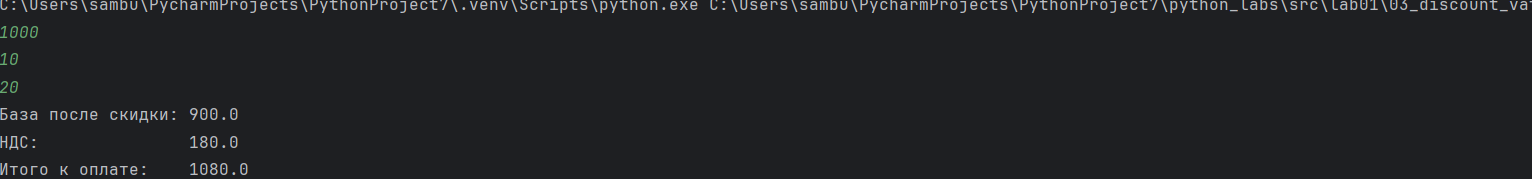
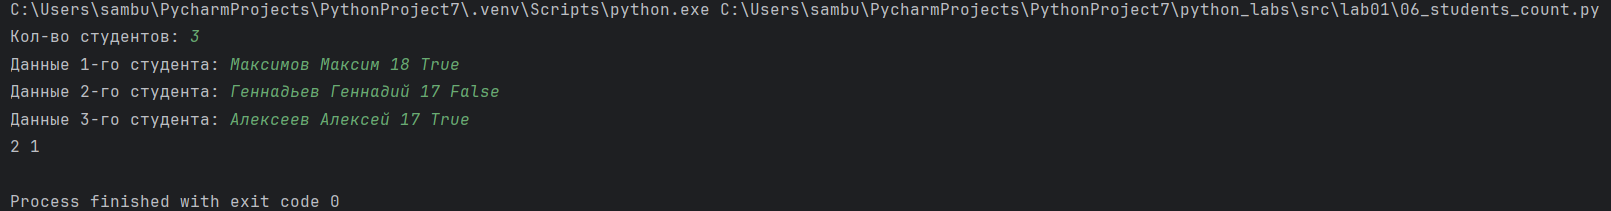
commit message

diff --git a/src/lab01/06_students_count.py b/src/lab01/06_students_count.py
@@ -1,6 +1,6 @@
 b = []
-for i in range(int(input())):
-    a = input().split()
+for i in range(int(input('Кол-во студентов: '))):
+    a = input(f'Данные {i + 1}-го студента: ').split()
     b.append([a[0], a[1], int(a[2]), a[3] == 'True'])
 print(sum([1 for i in b if i[-1]]), sum([1 for i in b if not i[-1]]))
 

diff --git a/src/lab01/03_discount_vat.py b/src/lab01/03_discount_vat.py
@@ -1,4 +1,6 @@
-price, discount, vat = [int(input()) for _ in range(3)]
+price = int(input('price='))
+discount = int(input('discount='))
+vat = int(input('vat='))
 base = price * (1 - discount/100)
 vat_amount = base * vat / 100
 total = base + vat_amount

diff --git a/README.md b/README.md
@@ -13,8 +13,7 @@
 
 ## 3
 
-![Тестовые данные](./images/lab01/img_4.png)
-![Личные данные](./images/lab01/img_5.png)
+![Тестовые данные](./images/lab01/img_5.png)
 
 ## 4
 
@@ -28,8 +27,7 @@
 
 ## 6
 
-![Тестовые данные](./images/lab01/img_10.png)
-![Личные данные](./images/lab01/img_11.png)
+![Тестовые данные](./images/lab01/img_4.png)
 
 ## 7
 
